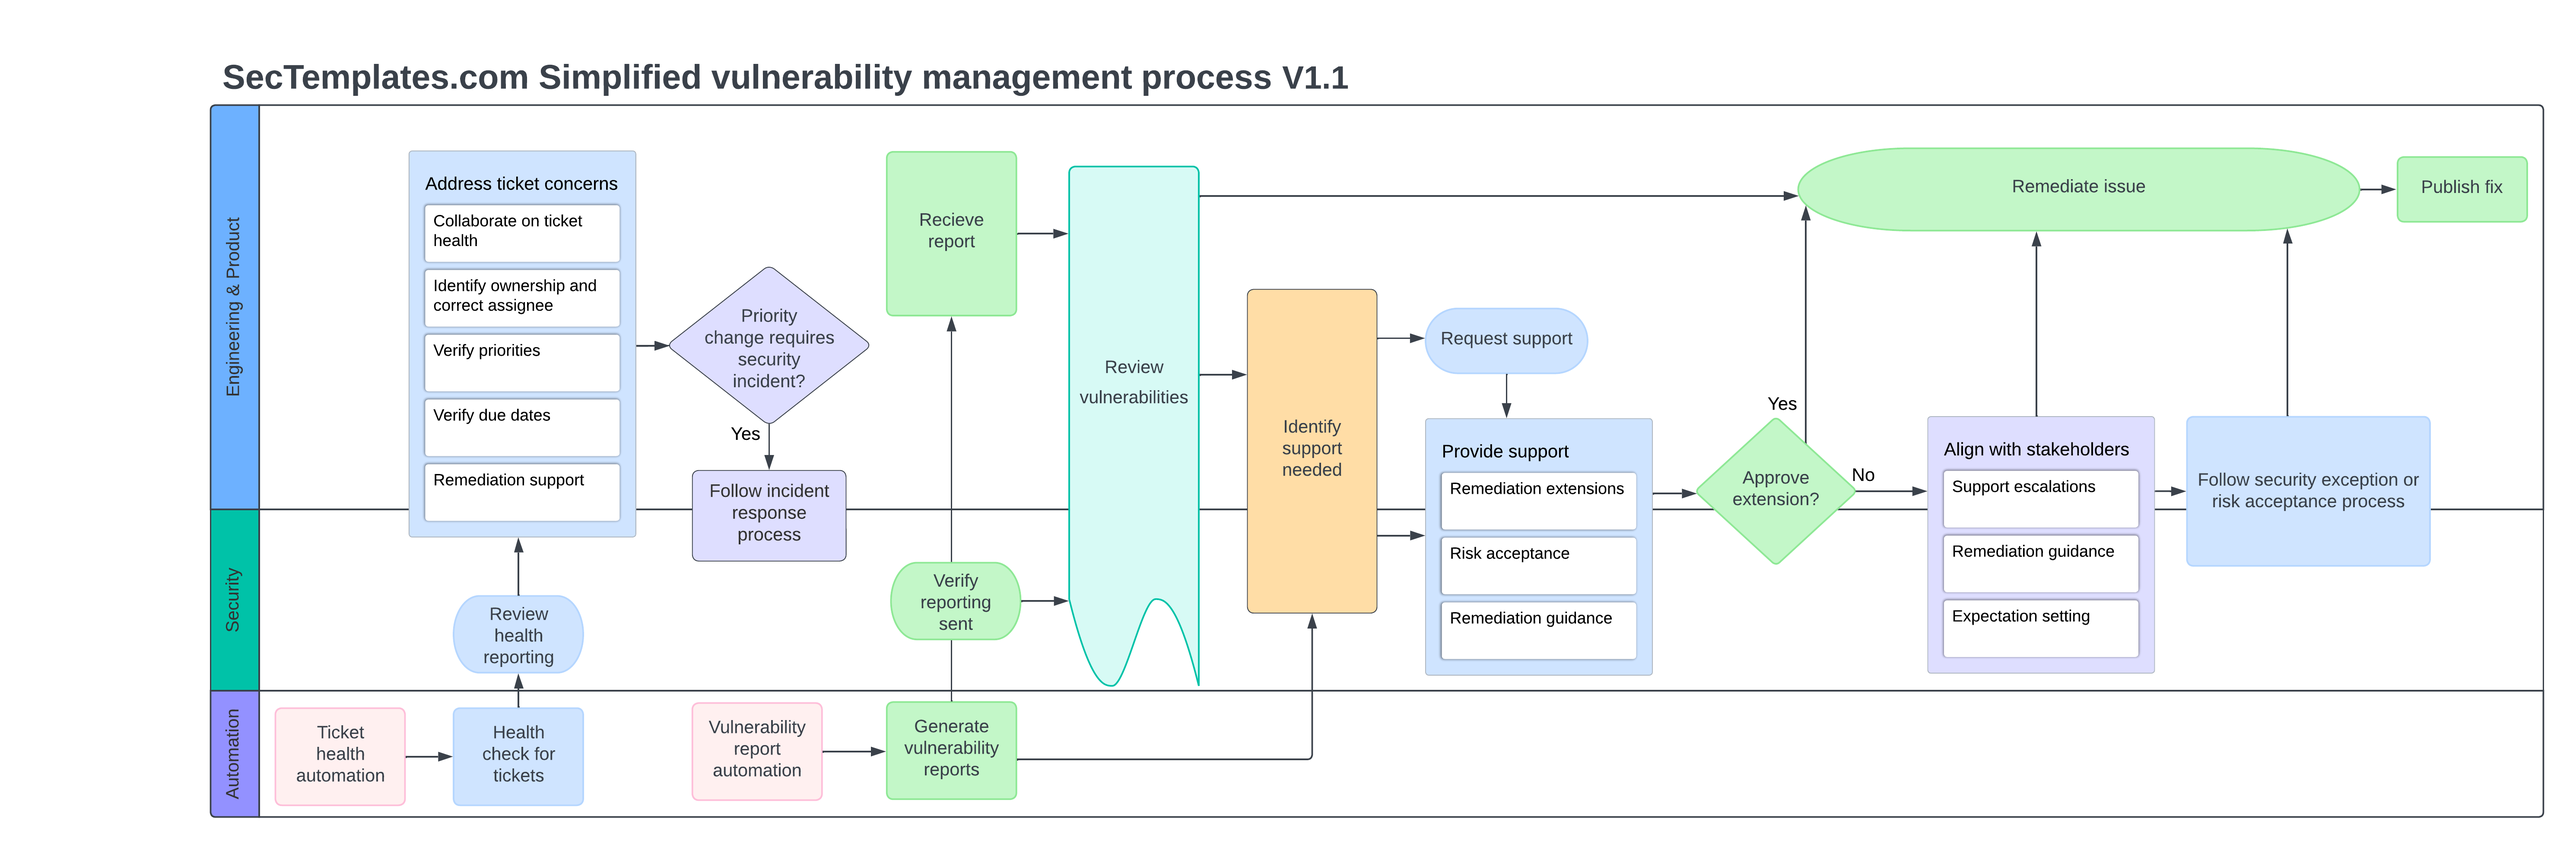
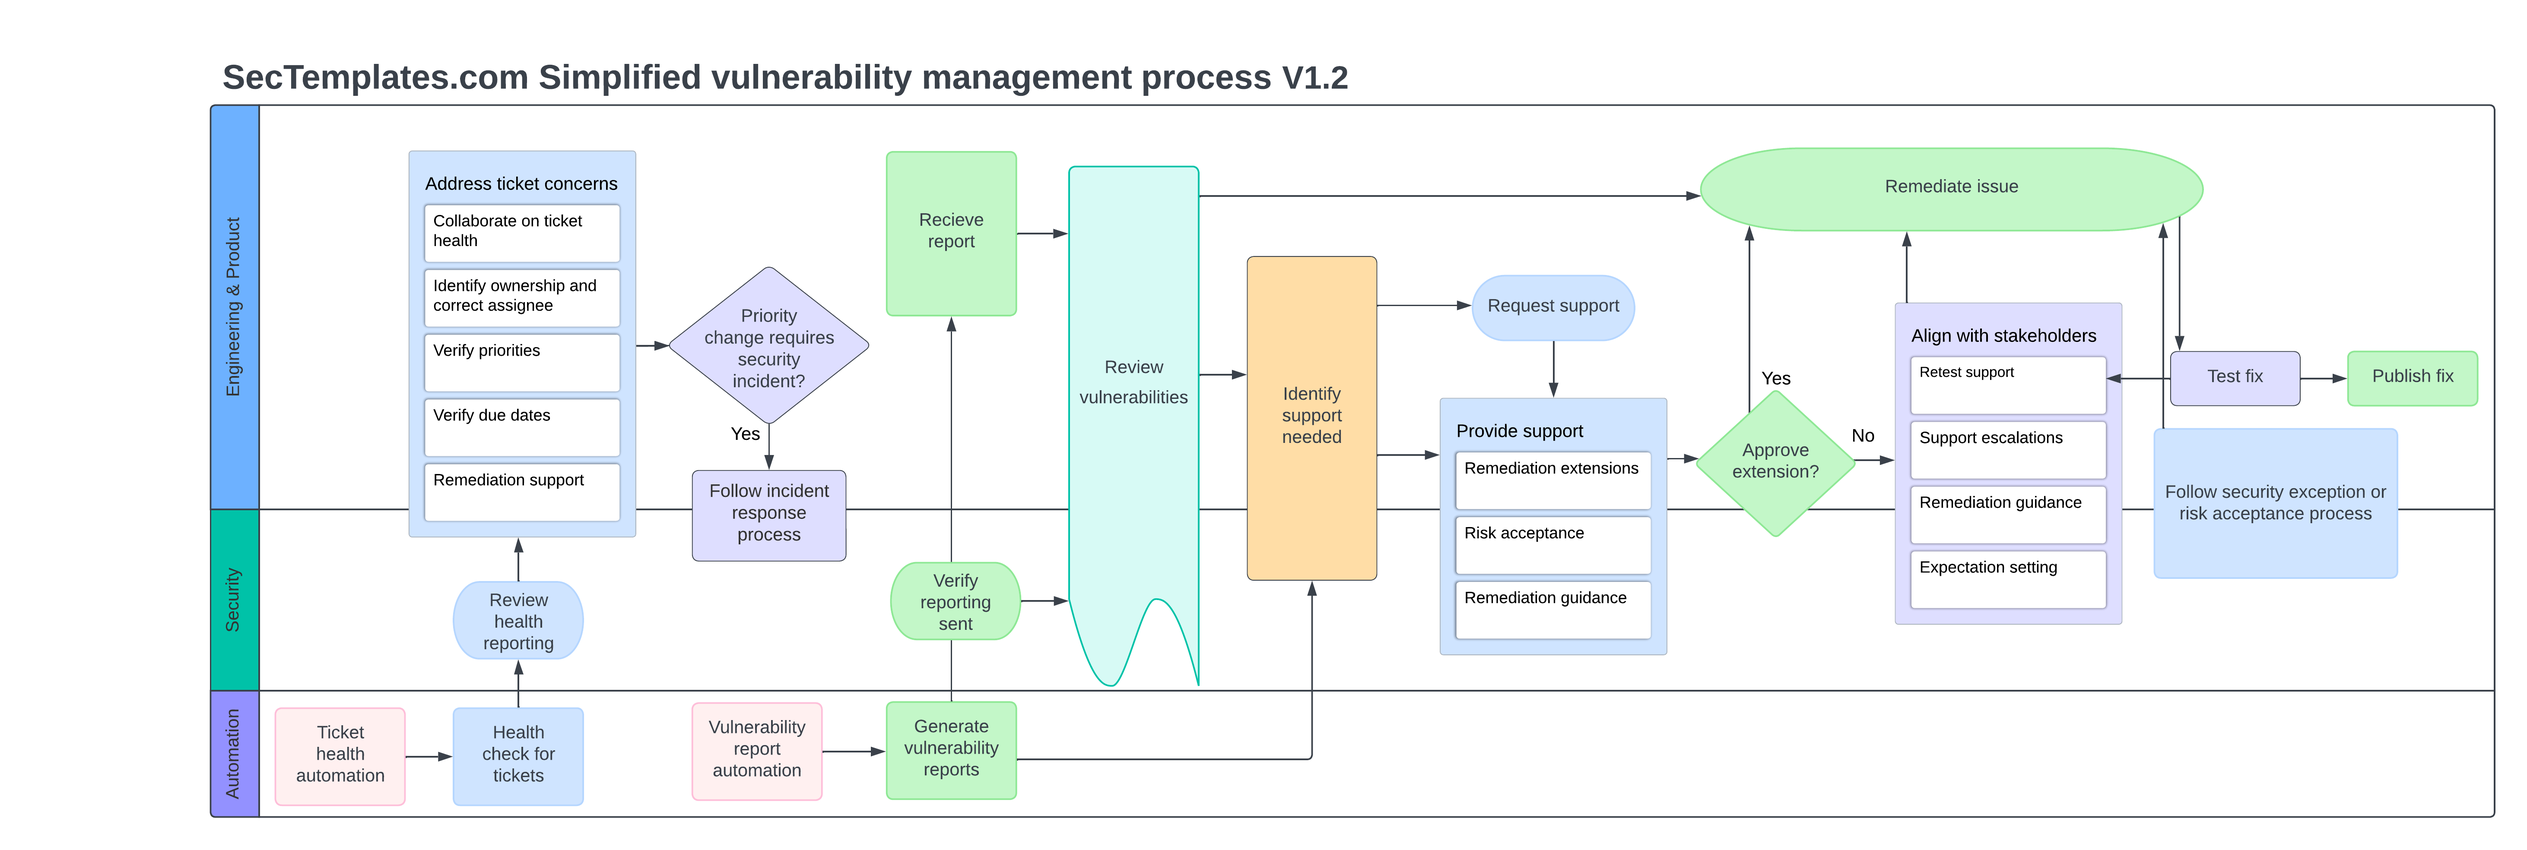
Publish v1.2

diff --git a/vulnerability-management/v1/Vulnerability_management_definitions.md b/vulnerability-management/v1/Vulnerability_management_definitions.md
@@ -65,7 +65,6 @@ A popular vulnerability scoring approach is to use the [CVSS framework](https://
 ## Option 3 - CVSS + (Option 1 or Option 2)
 Security scanners typically assign vulnerability severity automatically based on a CVSS score, simplifying risk calculation. This results in considerable time savings when determining the severity of each finding in bulk. Option 3 involves a hybrid approach, combining either Option 1 or Option 2 with the CVSS scores generated by automated vulnerability scanners. This middle-ground approach eliminates the need to manually classify the severities of scanner findings and supports ranking issues discovered by individuals, such as through a pentest, bug bounty, or other reports.
 
-<br><br>
 <b>Pros:</b> You benefit from accepting scanner finding priorities as they are. You can choose either Option 1 or Option 2 based on your risk tolerance and the resources available for classifying non-scanner findings.<br>
 <b>Cons:</b> Accepting scanner findings as they are, while also using a bug bar, may lead to scientific inconsistencies in your risk calculations.<br>
 
@@ -79,4 +78,4 @@ https://learn.microsoft.com/en-us/security/engineering/security-bug-bar-sample
 [3] CVEDetails - Search by CVSS score
 https://www.cvedetails.com/cvss-score-distribution.php
 
-Document version 1.1 copied from [Sectemplates.com](https://www.sectemplates.com) 2024
+Document version 1.2 copied from [Sectemplates.com](https://www.sectemplates.com) 2024

diff --git a/vulnerability-management/v1/README.md b/vulnerability-management/v1/README.md
@@ -1,5 +1,7 @@
-# Introduction to the Vulnerability Management Program Pack v1.1
+# Introduction to the Vulnerability Management Program Pack v1.2
 Welcome to the Vulnerability Management Program Pack. The goal of this release is to provide all the necessary resources to establish and set up a fully functioning vulnerability management program at your company. We recommend reviewing the material in the order specified below.
+
+Information on the <a href="https://www.sectemplates.com/vulnerability-management/">latest announcements is available on Sectemplates.com</a>.
 
 # 1. Vulnerability management definitions and sample remediation SLAs 
 This <a href="./Vulnerability_management_definitions.md">document</a> outlines vulnerability severity levels to help your company consistently evaluate and prioritize discovered issues. It also provides standard remediation SLAs as a baseline for setting remediation expectations.
@@ -39,5 +41,4 @@ This <a href="./UPDATES.md">file</a> contains update information for this releas
 
 
 
-
-Document version 1.0 copied from [Sectemplates.com](https://www.sectemplates.com) 2024
+Document version 1.2 copied from [Sectemplates.com](https://www.sectemplates.com) 2024

diff --git a/vulnerability-management/v1/Vulnerability_management_runbook.md b/vulnerability-management/v1/Vulnerability_management_runbook.md
@@ -80,4 +80,4 @@ The goal of this section is to outline how you can utilize and support stakehold
 * <b>Slack channel for help:</b> Having a channel where engineers, engineering managers, and product managers can join and ask for security help is beneficial and keeps communication flowing. We recommend either using the main #security channel or, if the volume of requests becomes too high, creating a separate support channel for vulnerability remediation support.<br>
 * <b>Office hours for help:</b> In addition to running automation and overseeing filed issues, we recommend providing office hours where engineers or their leaders can join and ask for help on an issue. This will require having a security engineer or SME available to provide support for 30-60 minutes per week.
 
-Runbook version 1.1 copied from [Sectemplates.com](https://www.sectemplates.com) 2024
+Runbook version 1.2 copied from [Sectemplates.com](https://www.sectemplates.com) 2024

diff --git a/vulnerability-management/v1/Vulnerability_management_preparation_checklist.md b/vulnerability-management/v1/Vulnerability_management_preparation_checklist.md
@@ -52,4 +52,4 @@ Verifying the quality of your tickets in an automated fashion is critical to ens
 ### Additional Ticket Health Automations Which May Prove Useful
 * <b>Tickets which have transitioned to closed without following the proper workflow: </b> After establishing your vulnerability ticket workflow, you will expect certain ticket states before an issue is closed. Creating automation to monitor tickets that have closed with unusual states can highlight incorrect ticket management by the risk owner or developer, as well as other issues. This will be highly dependent on how you have designed your ticket workflows.
           
-Checklist version 1.1 copied from [Sectemplates.com](https://www.sectemplates.com) 2024
+Checklist version 1.2 copied from [Sectemplates.com](https://www.sectemplates.com) 2024

diff --git a/vulnerability-management/v1/UPDATES.md b/vulnerability-management/v1/UPDATES.md
@@ -1,6 +1,11 @@
 # Vulnerability Management Program Pack Updates
 
-9/25/2024 - v1.1 - Released to address minor formatting, and a textual error regarding the reporting requirements document. 
 
-8/05/2024 - V1 - Released
+10/27/2024 - V1.2 - Released to explicitly include retesting in the diagram. 
+
+9/25/2024  - V1.1 - Released to address minor formatting, and a textual error regarding the reporting requirements document. 
+
+8/05/2024  - V1 - Released v1.0
   * Announcement: <a href="https://www.sectemplates.com/2024/08/announcing-the-vulnerability-management-program-pack-10.html">Announcing the Vulnerability Management program pack 1.0</a>
+
+Document version 1.0 copied from [Sectemplates.com](https://www.sectemplates.com/) 2024

diff --git a/vulnerability-management/v1/Vulnerability_reporting_requirements.md b/vulnerability-management/v1/Vulnerability_reporting_requirements.md
@@ -35,4 +35,4 @@ Below are additional reports that can be included in the same weekly report to e
 * <b>Security exceptions expiring:</B> When a security exception program is in place, you can include vulnerabilities with exceptions that are about to expire in the same report. This provides visibility that issues need to be revisited.
 * <B>Security exceptions requiring approval:</b> When a security exception program is in place, you can flag tickets requiring risk owner approval for issues they want an exception for.
 
-Document version 1.1 copied from [Sectemplates.com](https://www.sectemplates.com) 2024
+Document version 1.2 copied from [Sectemplates.com](https://www.sectemplates.com) 2024

diff --git a/vulnerability-management/v1/Vulnerability_management_metrics.md b/vulnerability-management/v1/Vulnerability_management_metrics.md
@@ -61,4 +61,4 @@ By grouping vulnerability types by product or organization, you can highlight re
  * Missing security frameworks for particular languages, frameworks, and/or tech stacks. For example, missing rate-limiting support for Python APIs, whereas Go applications have a solution.
  * Teams not adopting available solutions due to lack of awareness
 
-Metrics version 1.1 copied from [Sectemplates.com](https://www.sectemplates.com) 2024
+Metrics version 1.2 copied from [Sectemplates.com](https://www.sectemplates.com) 2024
